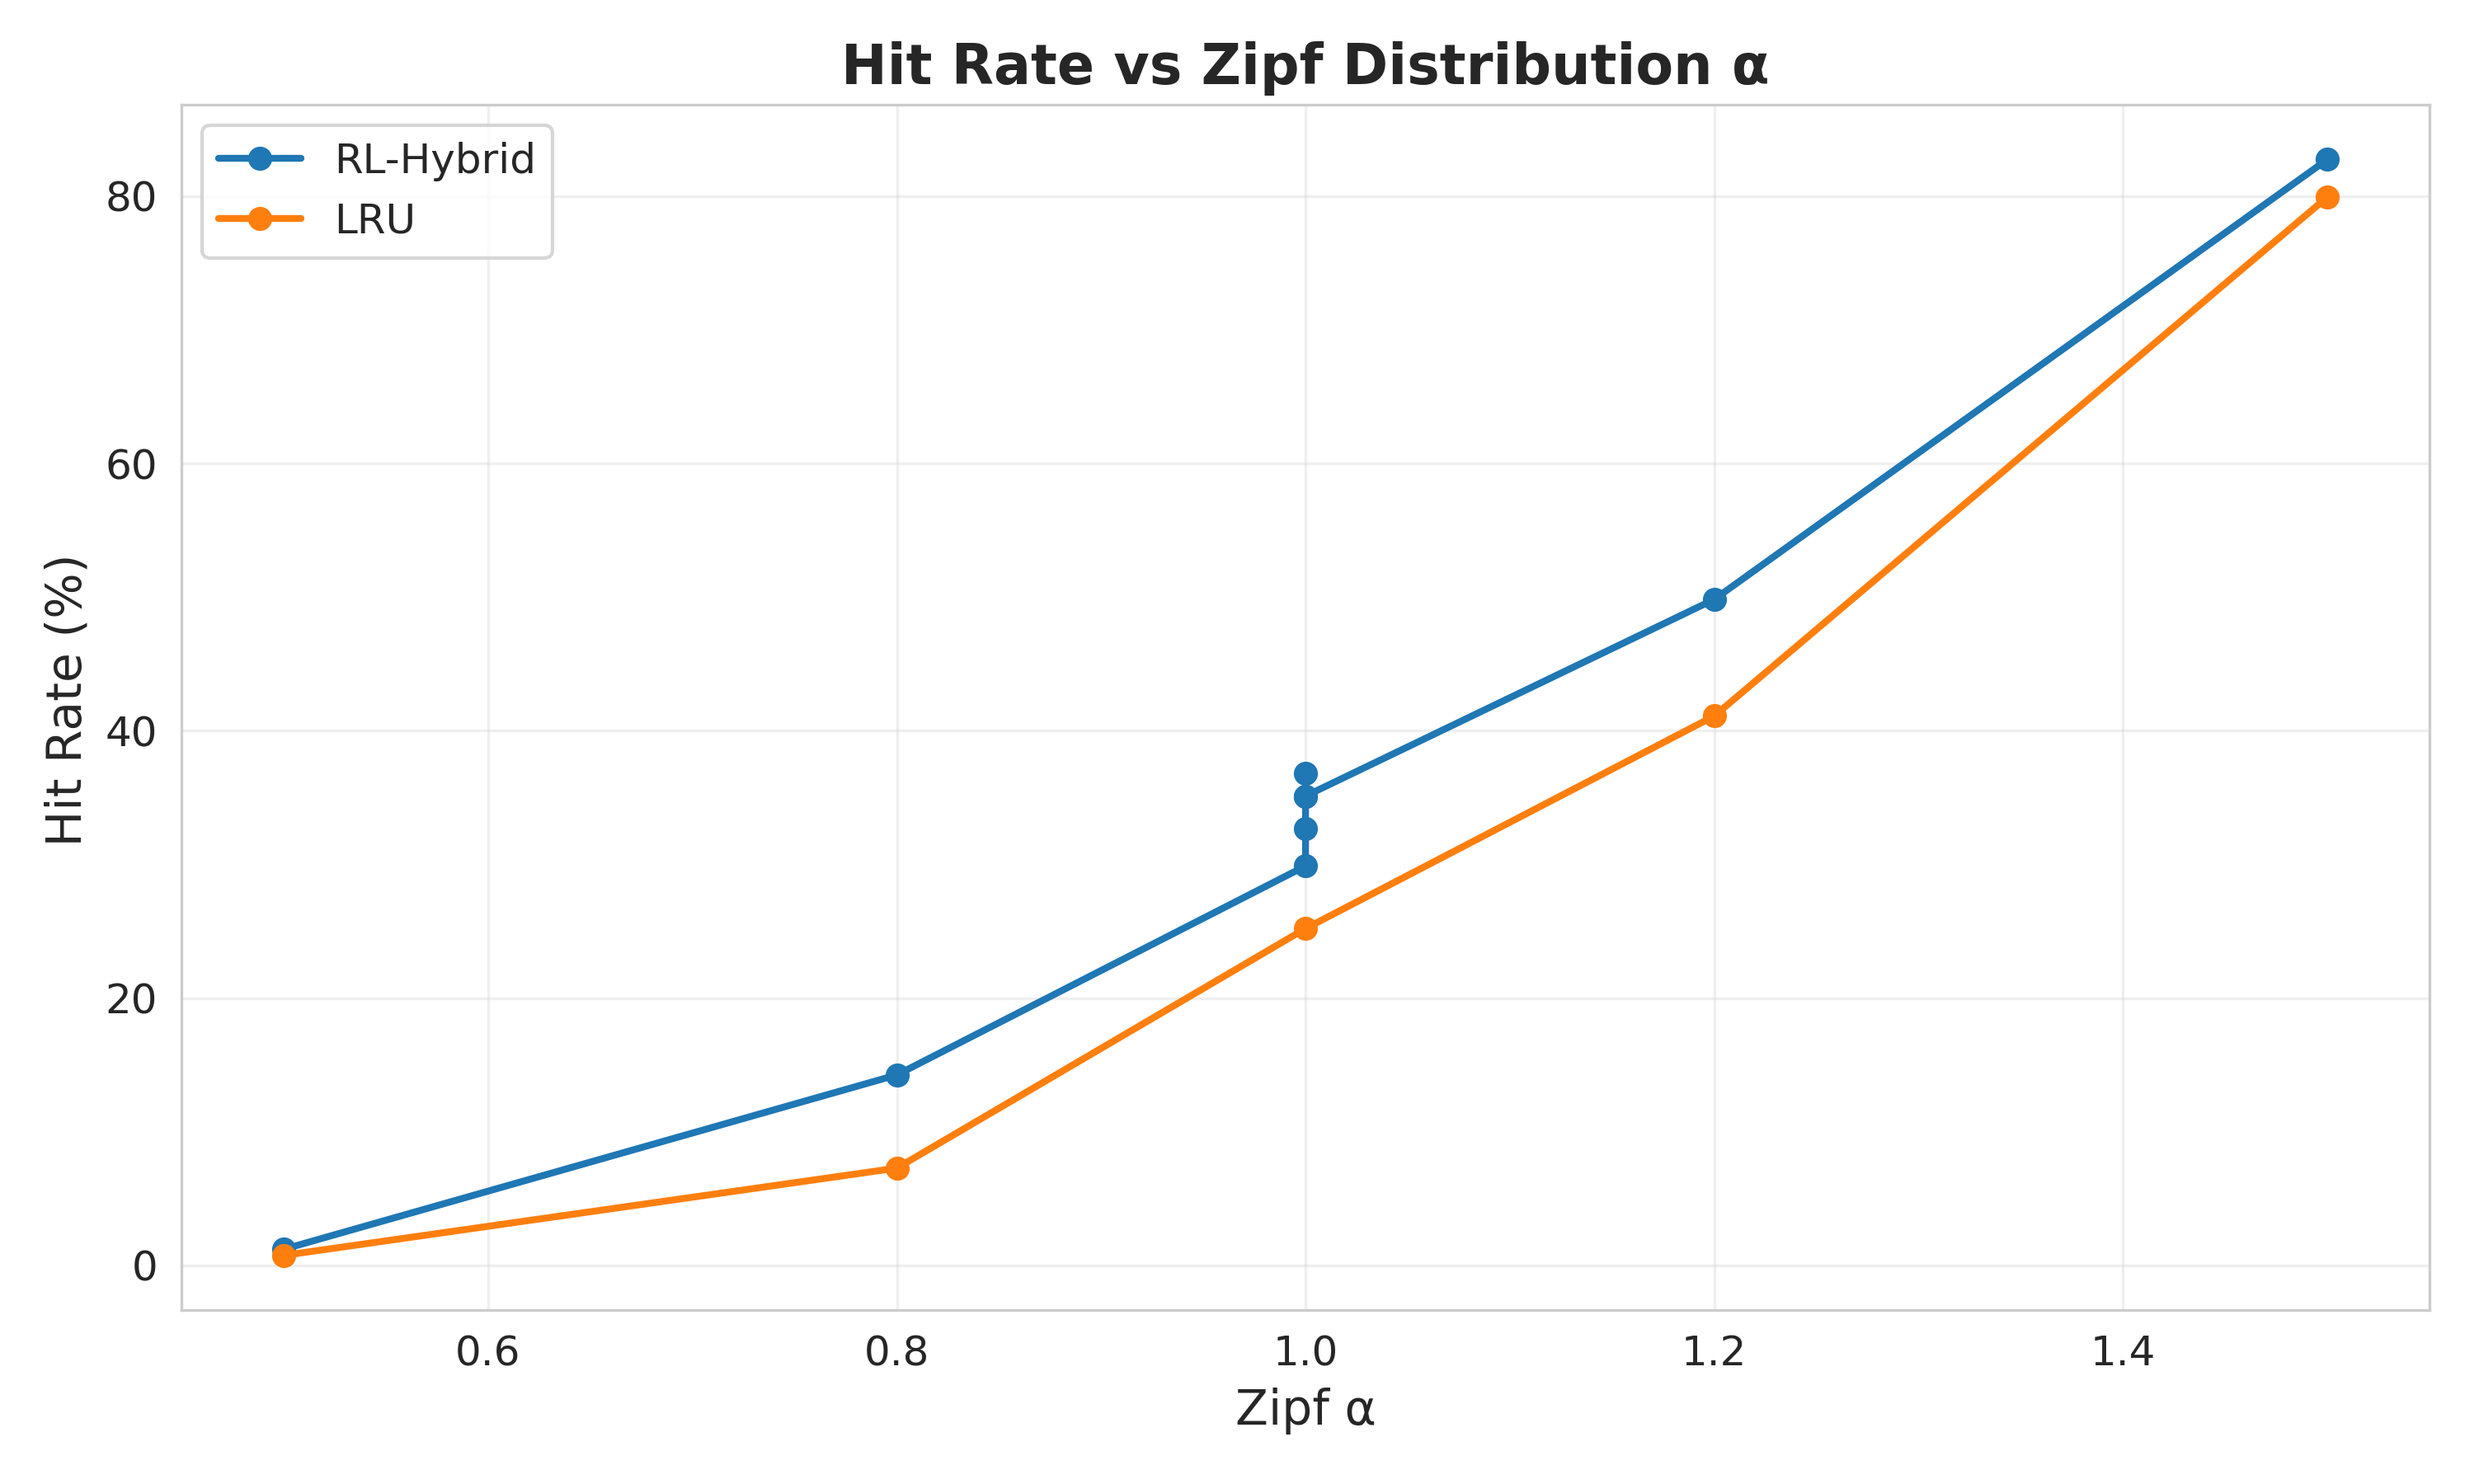
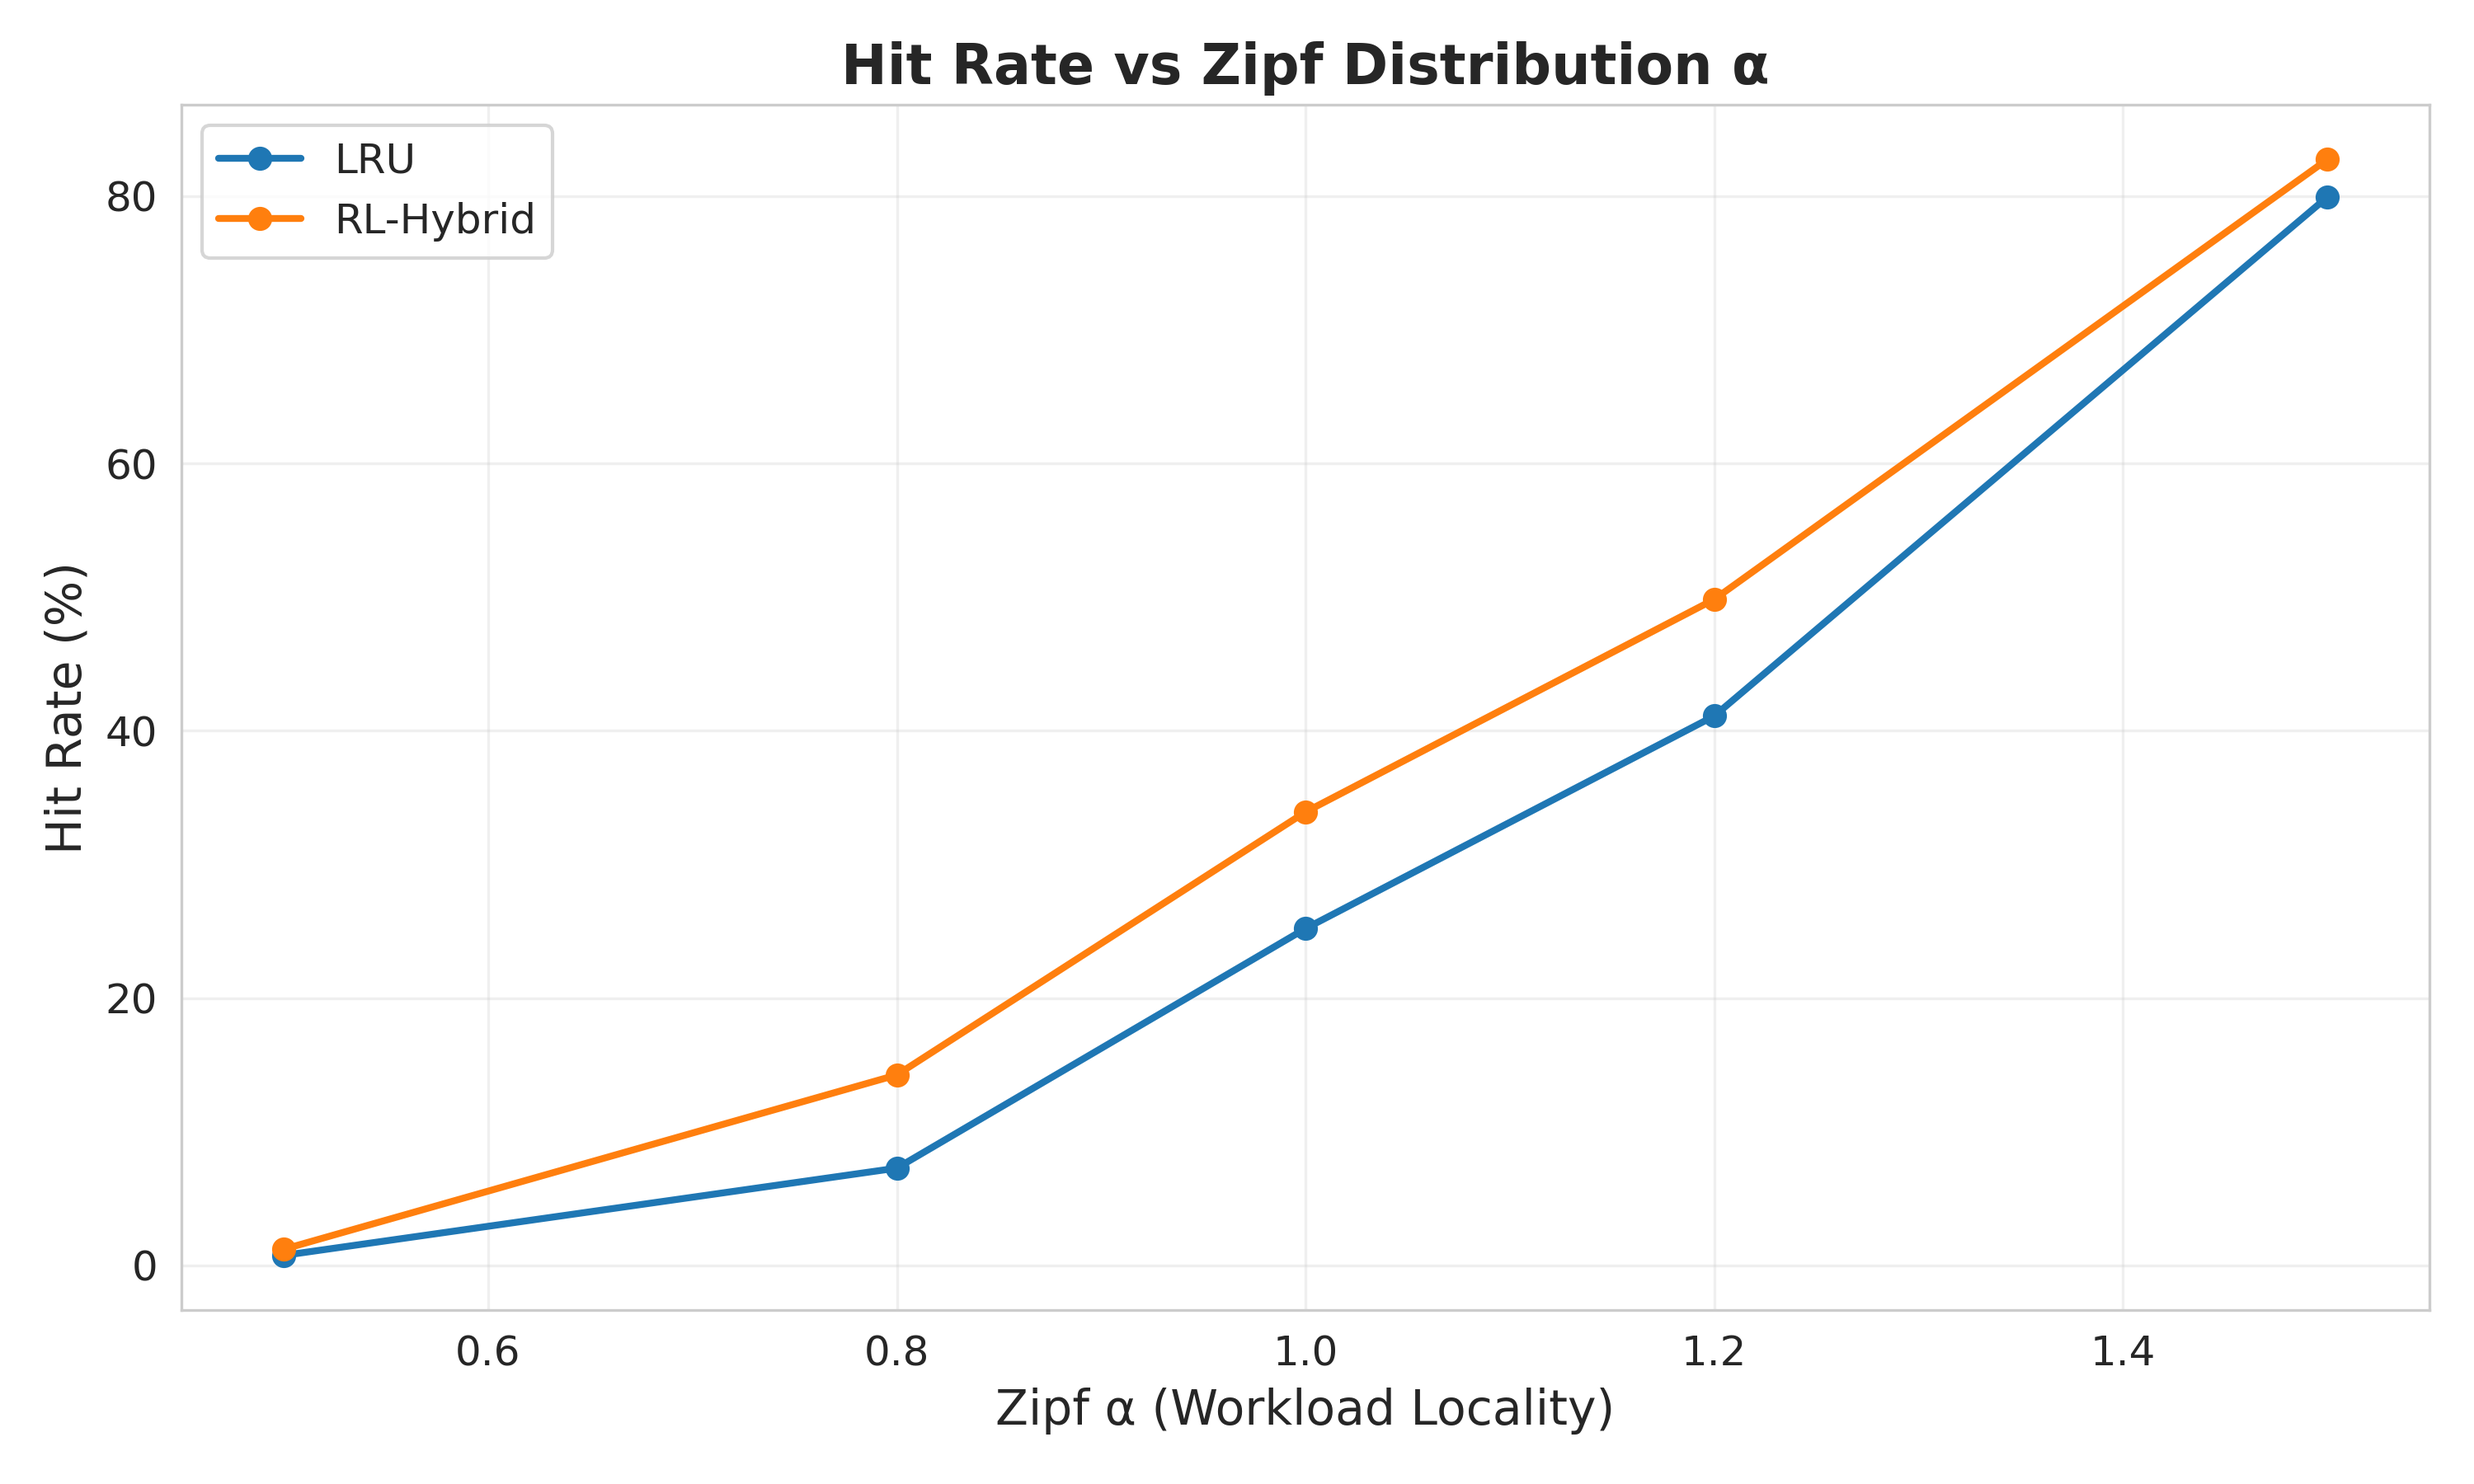
fix plots

diff --git a/generate_plots.py b/generate_plots.py
@@ -65,9 +65,11 @@ plt.close()
 
 # =================== PLOT 3: Runtime vs k (Candidate Size) ===================
 print("[3/8] Generating: Runtime vs k...")
-k_data = sensitivity[sensitivity['Trace'] == 'zipf_alpha_1.0.csv'].copy()
+k_data = sensitivity[(sensitivity['Trace'] == 'zipf_alpha_1.0.csv') & (sensitivity['Algorithm'] == 'RL-Hybrid')].copy()
 k_data = k_data[k_data['k'].isin([4, 8, 16, 32])]
 
+k_data = k_data.groupby('k', as_index=False)['Runtime (s)'].mean()
+k_data = k_data.sort_values('k')
 plt.figure(figsize=(10, 6))
 plt.plot(k_data['k'], k_data['Runtime (s)'], marker='o', linewidth=2, markersize=10, color='#1f77b4')
 plt.xlabel('k (Candidate Size)', fontsize=14)
@@ -82,14 +84,15 @@ plt.close()
 print("[4/8] Generating: Hit rate vs Zipf α...")
 zipf_data = sensitivity[sensitivity['Trace'].str.contains('zipf_alpha')].copy()
 zipf_data['alpha'] = zipf_data['Trace'].str.extract(r'(\d\.\d)').astype(float)
+zipf_data = zipf_data.groupby(['Algorithm', 'alpha'], as_index=False)['Hit Rate (%)'].mean()
 
 plt.figure(figsize=(10, 6))
 for algo in zipf_data['Algorithm'].unique():
     data = zipf_data[zipf_data['Algorithm'] == algo].sort_values('alpha')
     plt.plot(data['alpha'], data['Hit Rate (%)'], marker='o', label=algo, linewidth=2)
 
-plt.xlabel('Zipf α', fontsize=14)
-plt.ylabel(' Hit Rate (%)', fontsize=14)
+plt.xlabel('Zipf α (Workload Locality)', fontsize=14)
+plt.ylabel('Hit Rate (%)', fontsize=14)
 plt.title('Hit Rate vs Zipf Distribution α', fontsize=16, fontweight='bold')
 plt.legend()
 plt.grid(True, alpha=0.3)
